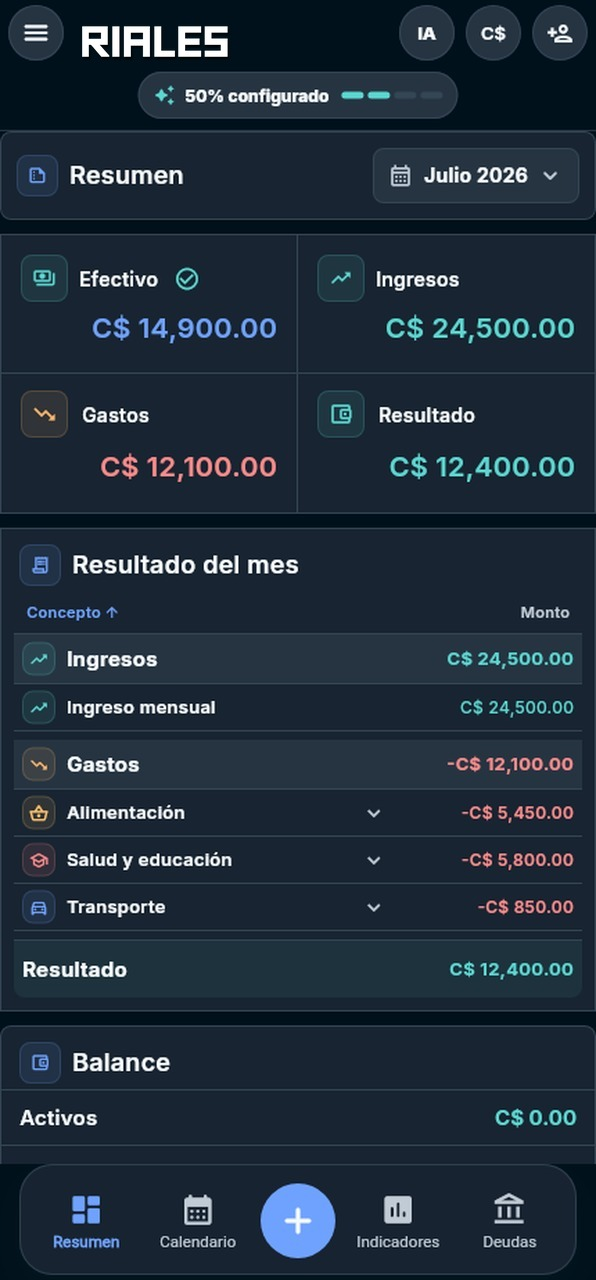
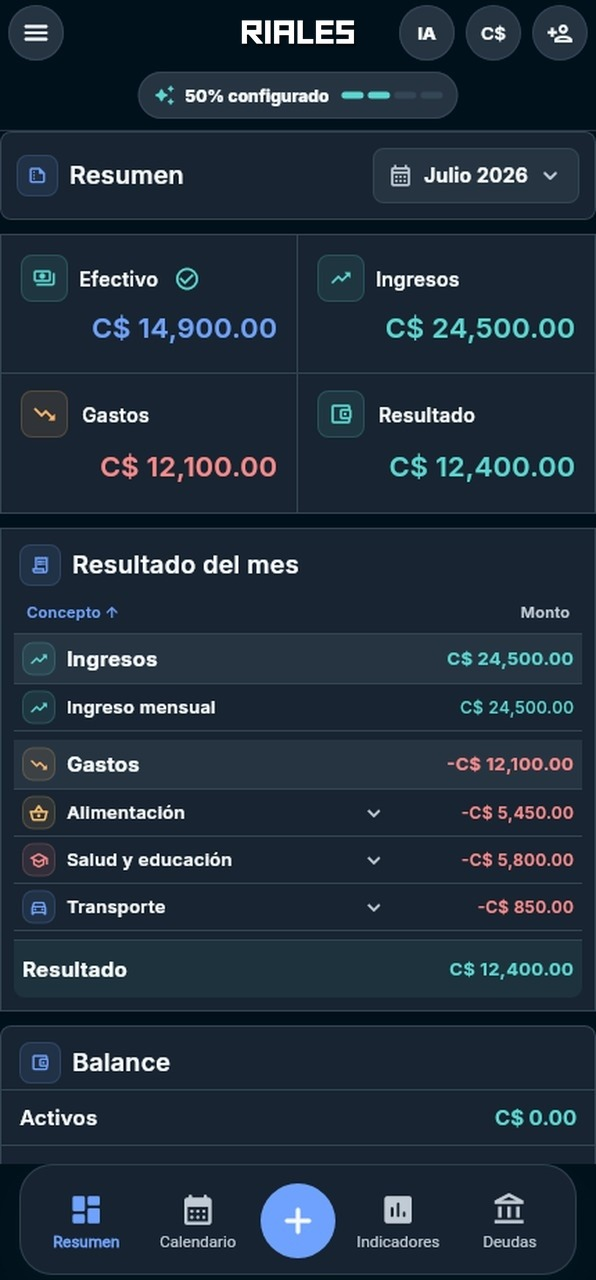
Deploy official site from 18ab1b0c7a9b8db30daffb0056a11c93fb14ae8e

Changed region(s): [[0.1208, 0.0, 0.604, 0.0625]]

diff --git a/index.html b/index.html
@@ -9,7 +9,7 @@
       content="RIALES es una app de finanzas personales para Nicaragua: ingresos, gastos, deudas, efectivo, activos, voz y PDF en una sola vista."
     />
     <link rel="canonical" href="https://riales.app/" />
-    <link rel="stylesheet" href="/assets/site.css?v=20260704n" />
+    <link rel="stylesheet" href="/assets/site.css?v=20260704o" />
     <script src="/assets/pricing.js?v=20260704a" defer></script>
   </head>
   <body>
@@ -73,7 +73,7 @@
           </div>
 
           <div class="device-mockup hero-device main-device">
-            <img class="real-screen" src="/assets/screen-resumen.jpg?v=20260704c" alt="Pantalla real del resumen de RIALES" width="596" height="1280" />
+            <img class="real-screen" src="/assets/screen-resumen.jpg?v=20260704e" alt="Pantalla real del resumen de RIALES" width="596" height="1280" />
           </div>
         </div>
 
@@ -141,7 +141,7 @@
               </p>
             </div>
             <div class="device-mockup">
-              <img class="real-screen" src="/assets/screen-resumen.jpg?v=20260704c" alt="Pantalla real de resultado del mes en RIALES" width="596" height="1280" />
+              <img class="real-screen" src="/assets/screen-resumen.jpg?v=20260704e" alt="Pantalla real de resultado del mes en RIALES" width="596" height="1280" />
             </div>
           </article>
 

diff --git a/privacidad/index.html b/privacidad/index.html
@@ -9,7 +9,7 @@
       content="Política de privacidad de RIALES para usuarios de la app y del sitio oficial."
     />
     <link rel="canonical" href="https://riales.app/privacidad" />
-    <link rel="stylesheet" href="/assets/site.css?v=20260704n" />
+    <link rel="stylesheet" href="/assets/site.css?v=20260704o" />
   </head>
   <body>
     <header class="site-header">

diff --git a/terminos/index.html b/terminos/index.html
@@ -9,7 +9,7 @@
       content="Términos y condiciones de uso de RIALES."
     />
     <link rel="canonical" href="https://riales.app/terminos" />
-    <link rel="stylesheet" href="/assets/site.css?v=20260704n" />
+    <link rel="stylesheet" href="/assets/site.css?v=20260704o" />
     <script src="/assets/copy-email.js?v=20260627a" defer></script>
   </head>
   <body>

diff --git a/eliminacion-cuenta/index.html b/eliminacion-cuenta/index.html
@@ -9,7 +9,7 @@
       content="Solicita la eliminacion de cuenta y datos asociados de RIALES."
     />
     <link rel="canonical" href="https://riales.app/eliminacion-cuenta" />
-    <link rel="stylesheet" href="/assets/site.css?v=20260704n" />
+    <link rel="stylesheet" href="/assets/site.css?v=20260704o" />
   </head>
   <body>
     <header class="site-header">

diff --git a/404.html b/404.html
@@ -4,7 +4,7 @@
     <meta charset="utf-8" />
     <meta name="viewport" content="width=device-width, initial-scale=1" />
     <title>Pagina no encontrada | RIALES</title>
-    <link rel="stylesheet" href="/assets/site.css?v=20260704n" />
+    <link rel="stylesheet" href="/assets/site.css?v=20260704o" />
   </head>
   <body>
     <header class="site-header">

diff --git a/assets/site.css b/assets/site.css
@@ -308,7 +308,7 @@ h1 {
 .device-mockup::before {
   content: "";
   position: absolute;
-  top: 0.55rem;
+  top: 0.22rem;
   left: 50%;
   z-index: 2;
   width: 0.46rem;
